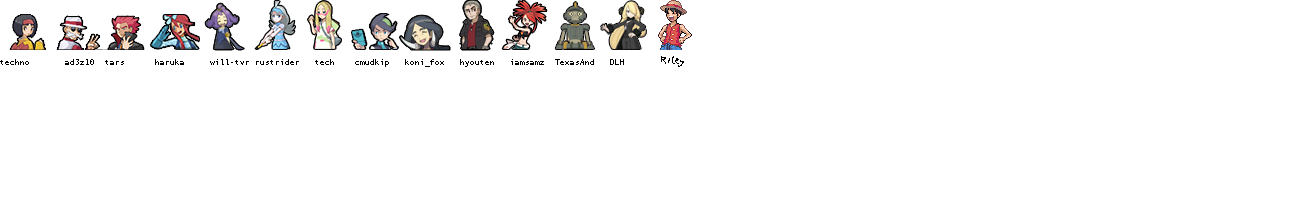
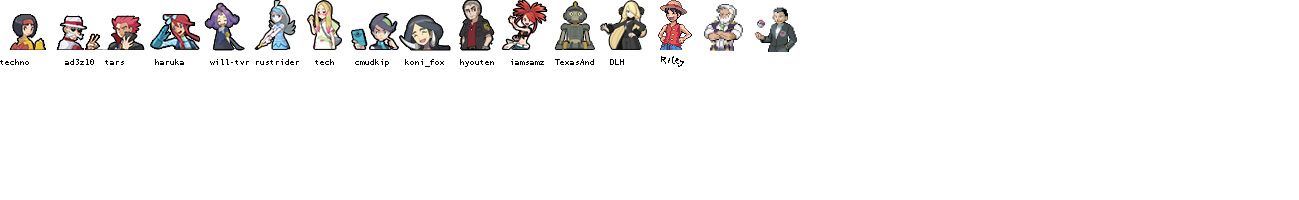
Updated mtf and sp images

Changed region(s): [[0.5235, 0.03, 0.6159, 0.27]]

diff --git a/src/userflair.css b/src/userflair.css
@@ -206,6 +206,16 @@ span.flairemoji {width: 30px;height: 28px;margin: 2px 5px;}
     background:url(%%sp%%) -38px -126px !important;
 }
 
+/* Lost */
+.author[href$="/Im_Lost_Send_Help"]~.flair{
+    background:url(%%sp%%) -78px -126px !important;
+}
+
+/* BamSquid */
+.author[href$="/ninjatoasty"]~.flair{
+    background:url(%%sp%%) -118px -126px !important;
+}
+
 /*.author[href$="/rileydelete"]~.flair {
     background: url(%%sp%%)  -38px -89px !important; -- OLD FLAIR TYPE
     background: url(%%mtf%%) -150px 0!important
